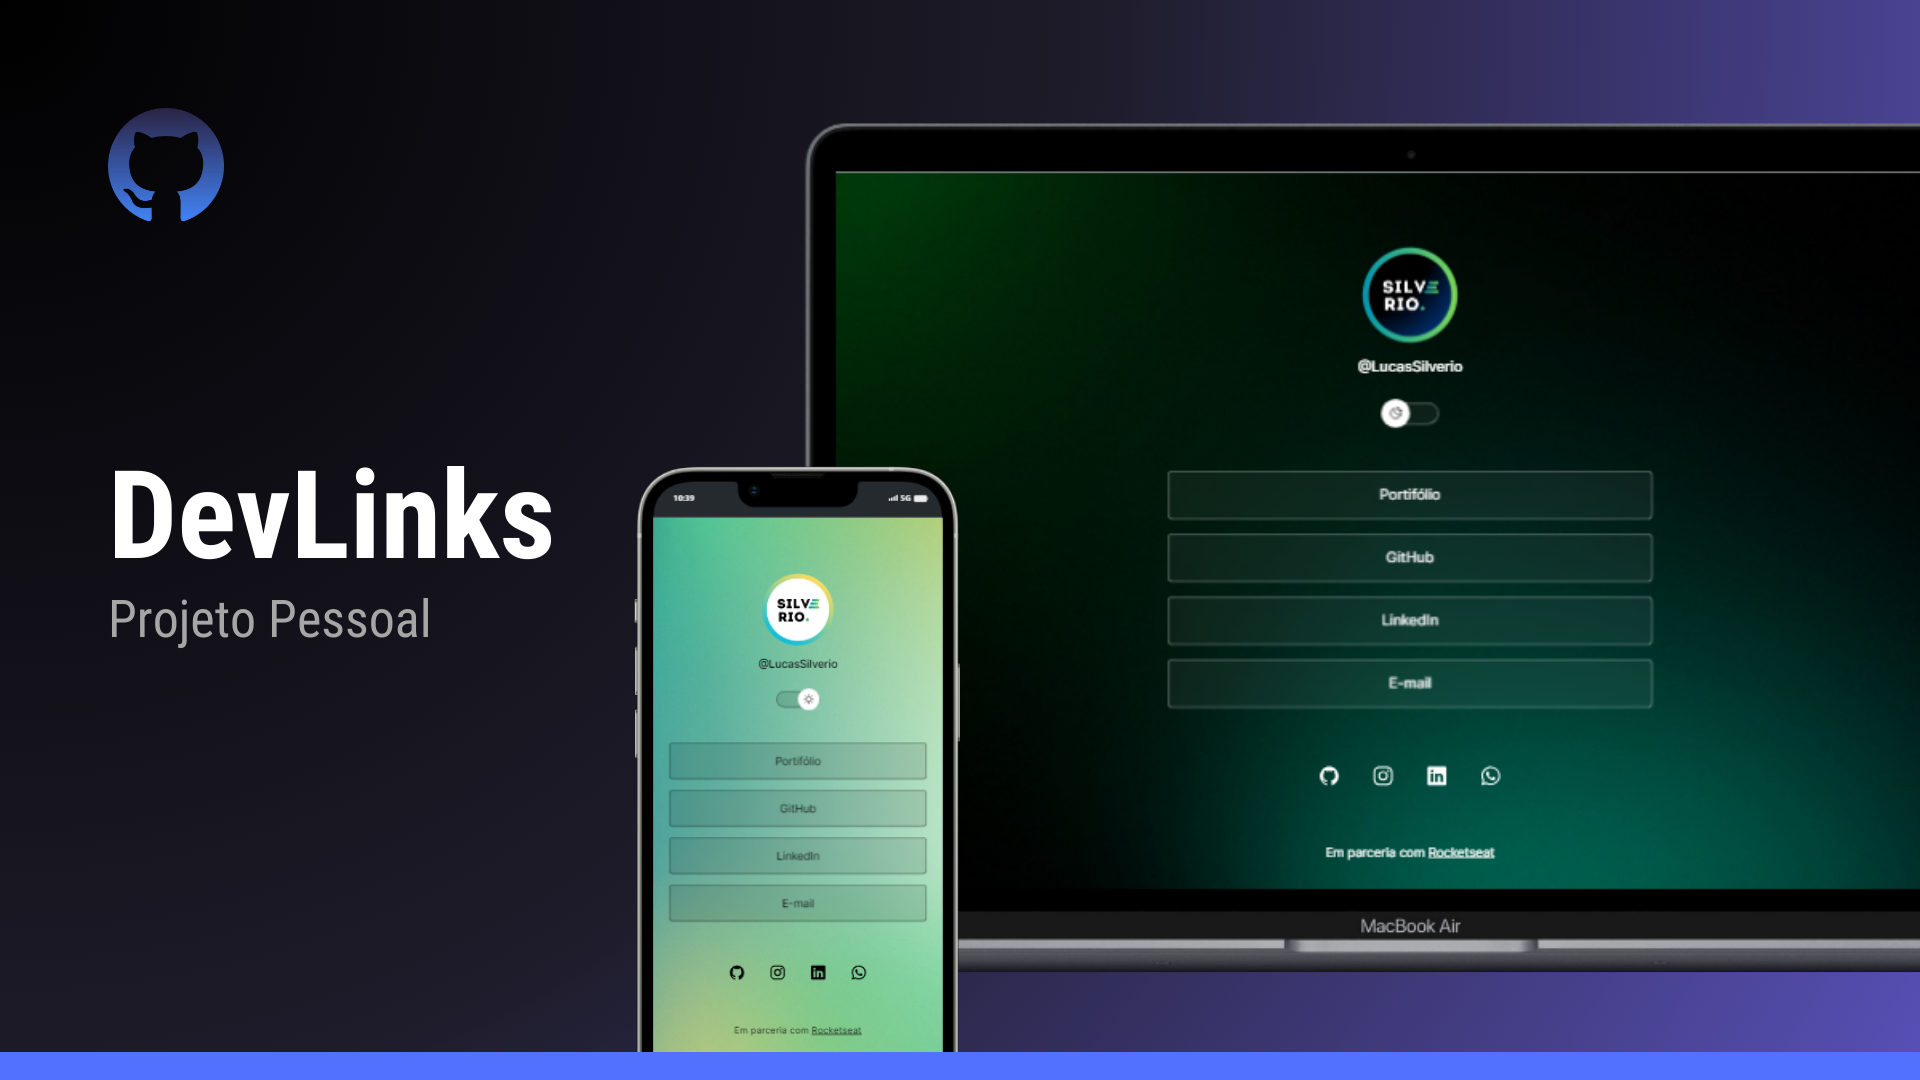
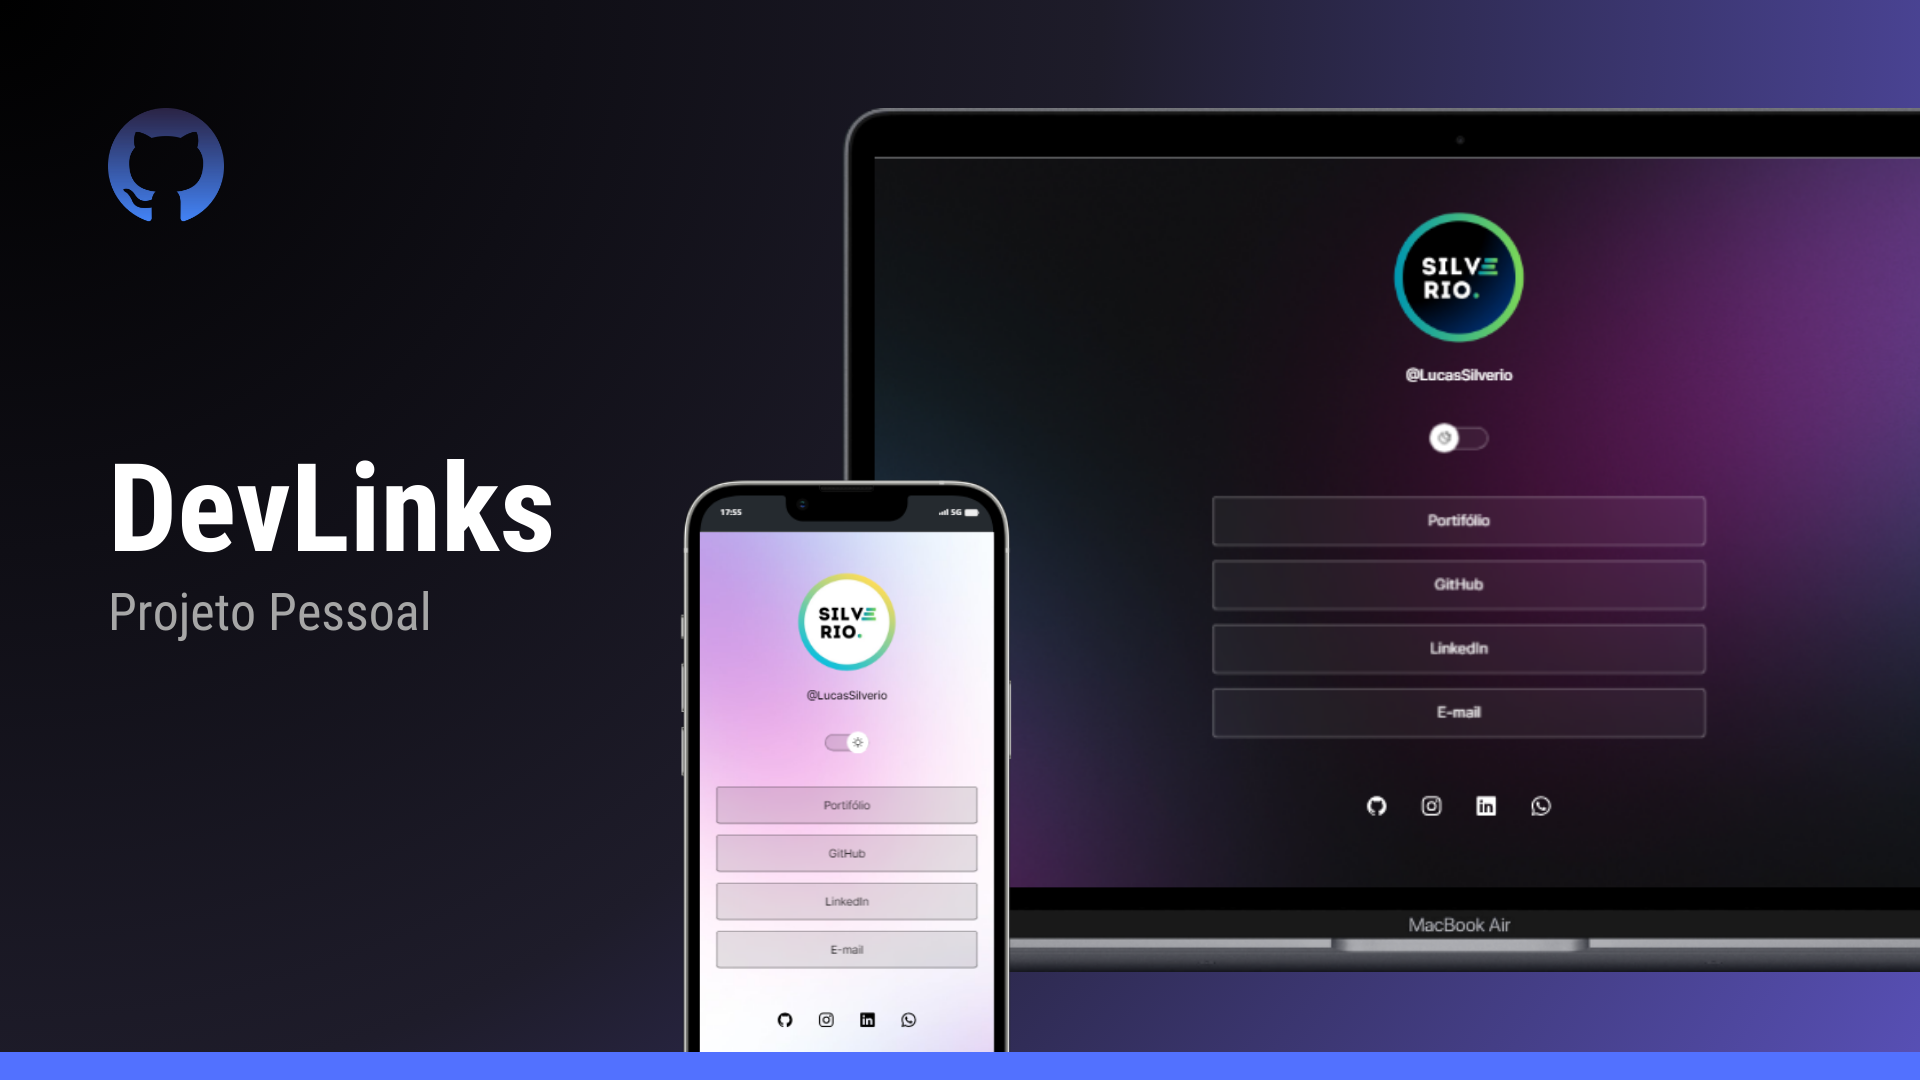
design ajusts

diff --git a/index.html b/index.html
@@ -17,6 +17,7 @@
     <div id="container">
       <div id="profile">
         <img src="./assets/logo-dark.png" alt="Foto de perfil" />
+        <p>@LucasSilverio</p>
       </div>
       <div id="switch" onclick="toggleMode()">
         <button></button>

diff --git a/style.css b/style.css
@@ -56,7 +56,7 @@ body * {
 #profile p {
   font-weight: 500;
   line-height: 24px;
-  margin-top: 8px;
+  margin-top: 16px;
 }
 
 #switch {
